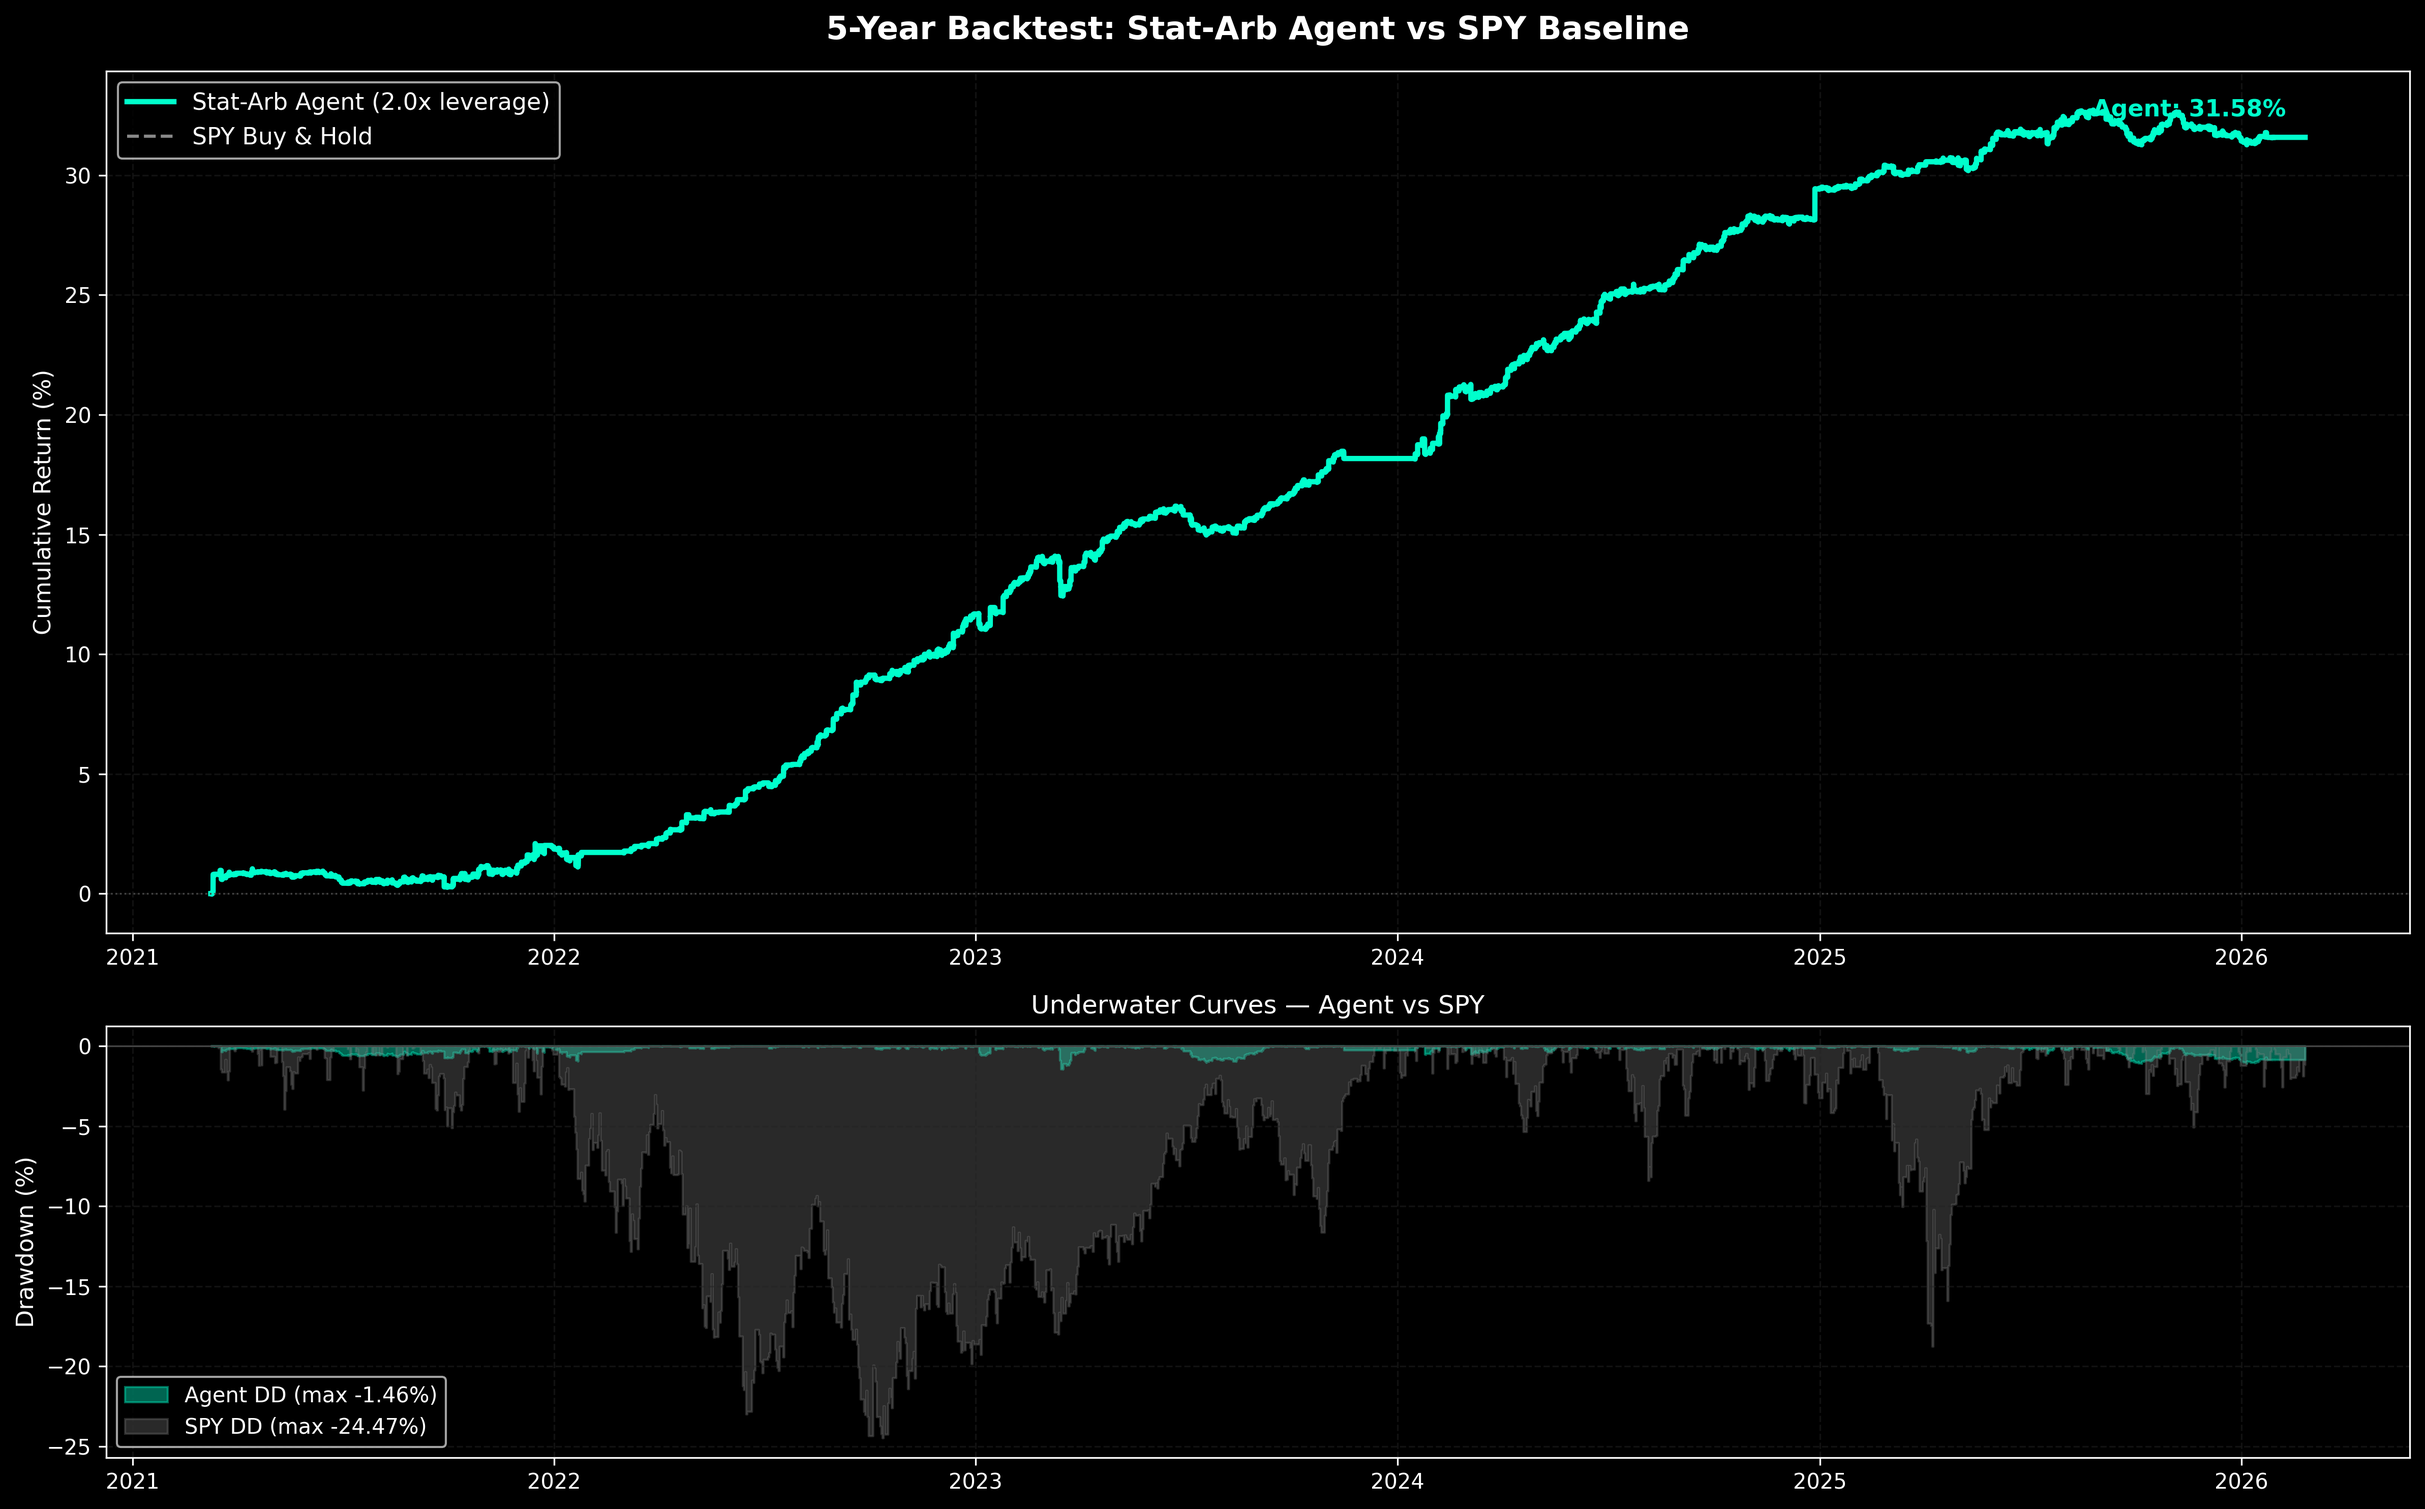
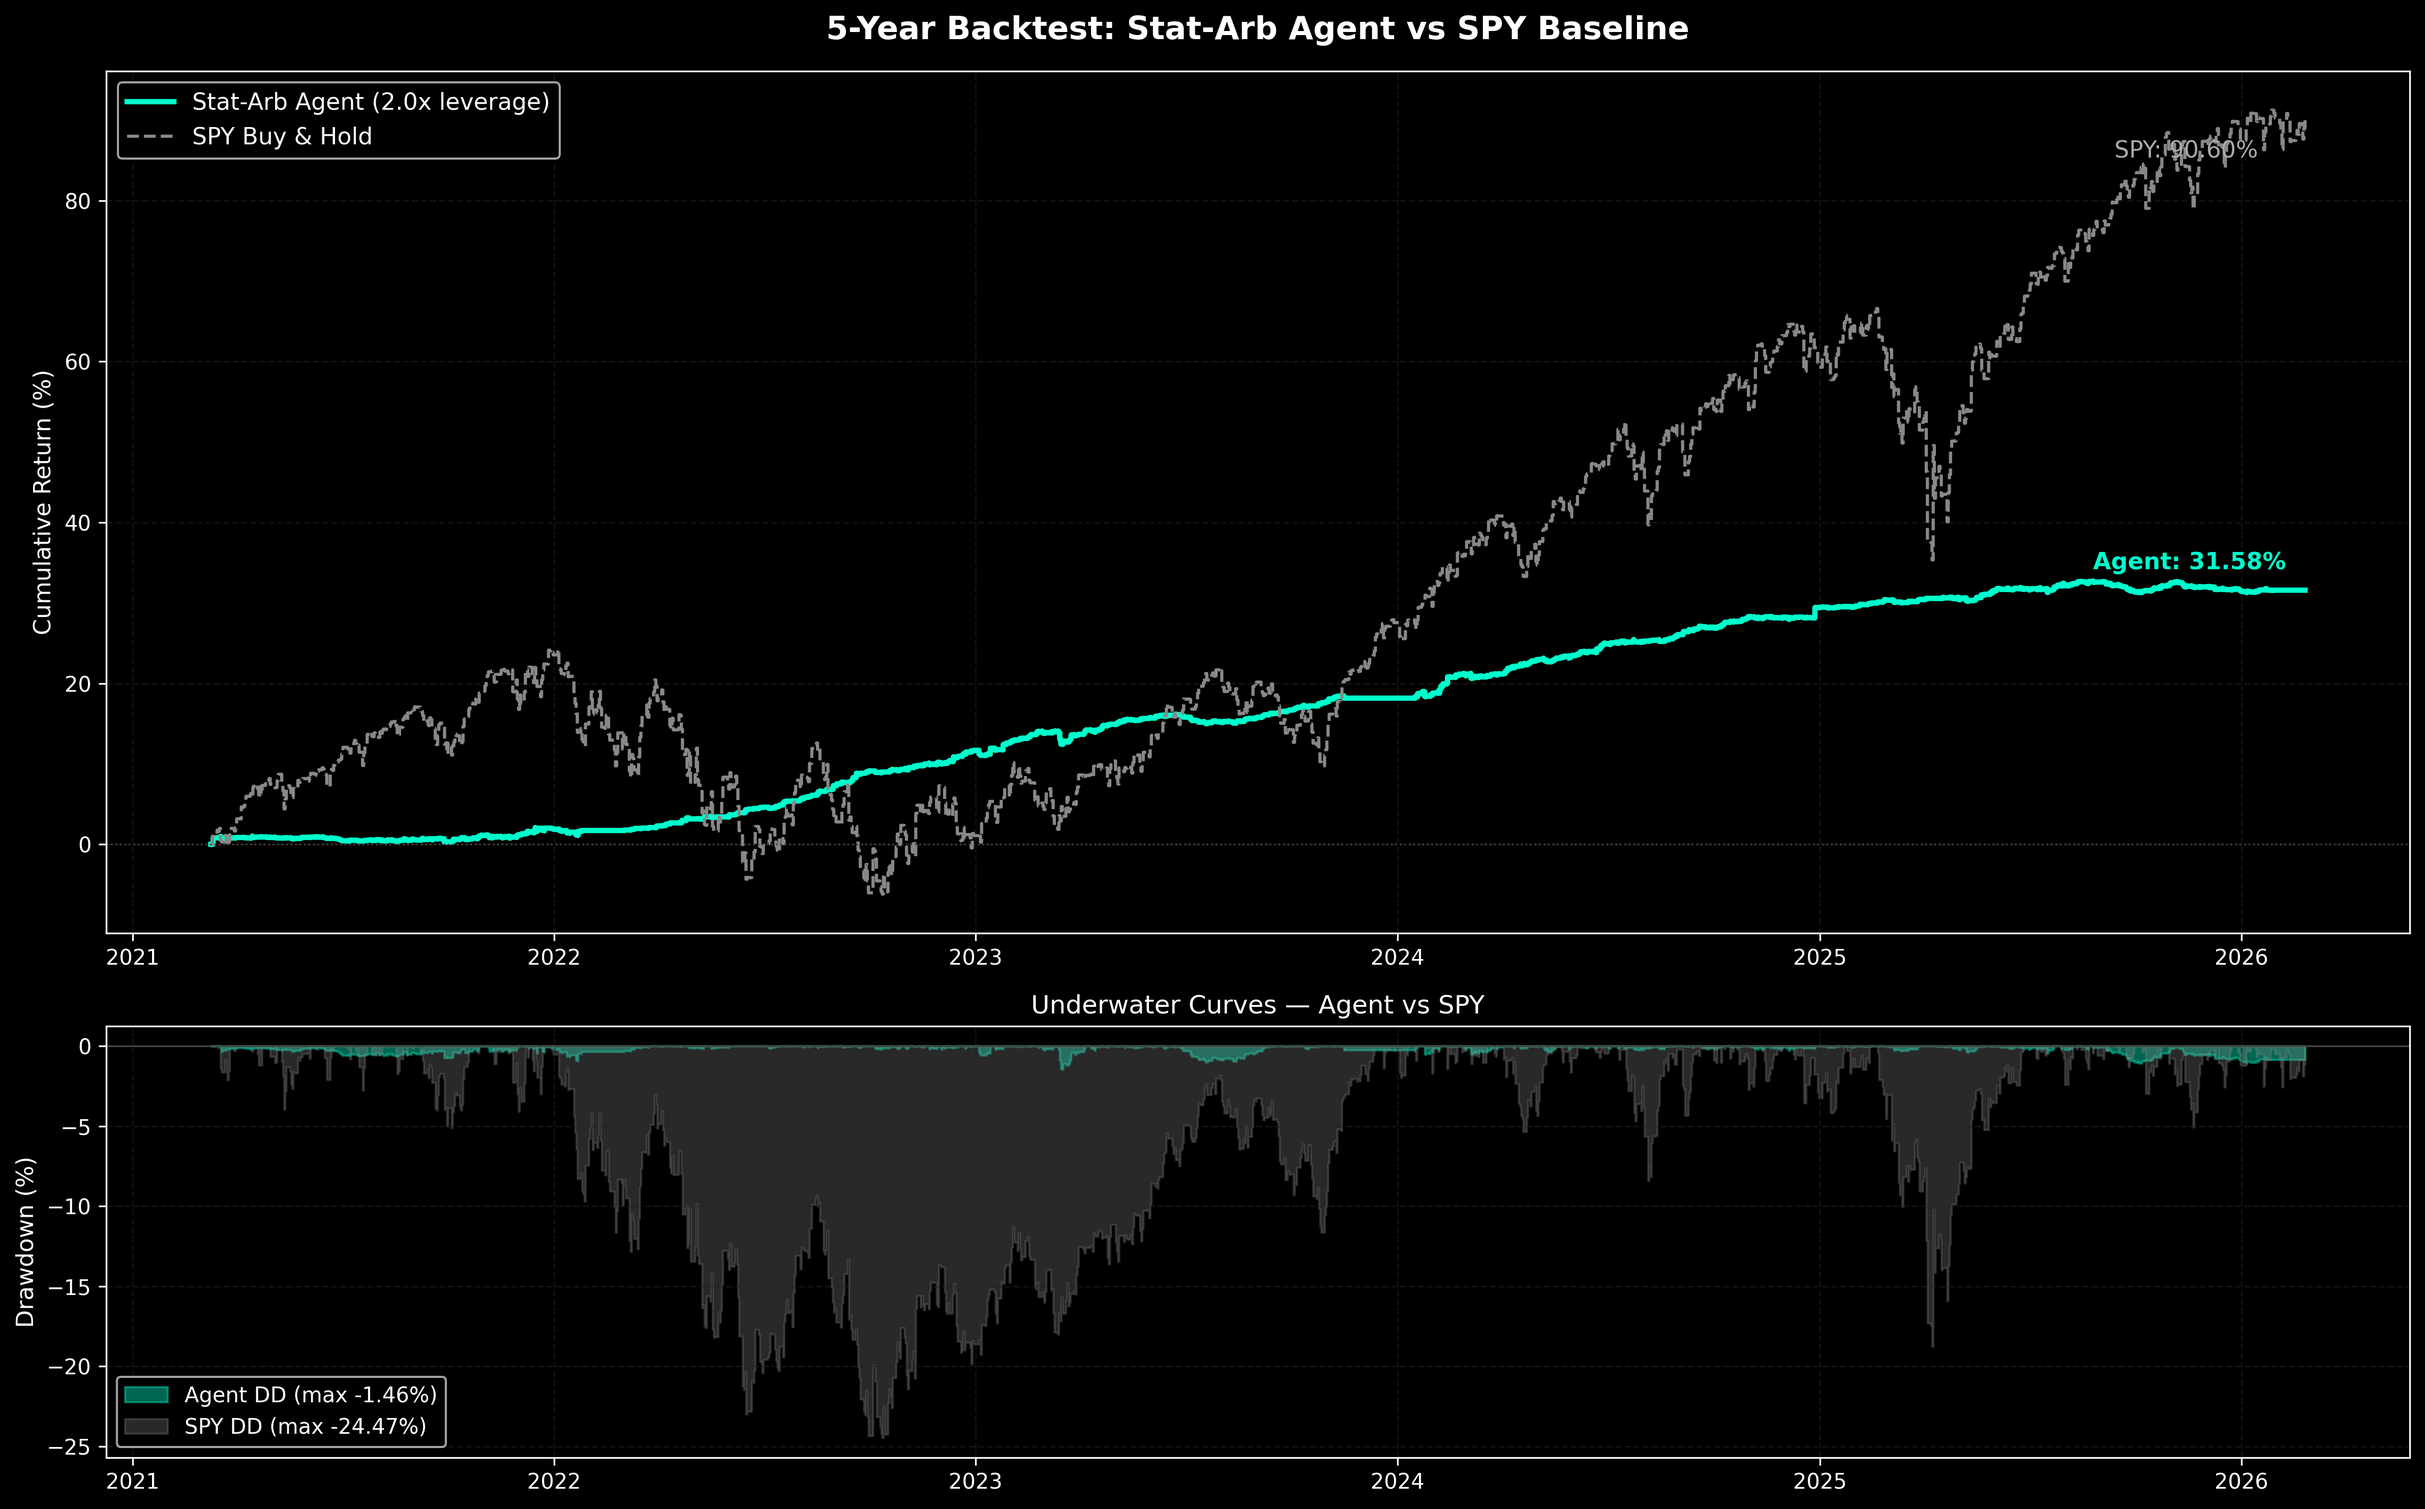
final backtesting results, tearsheet

diff --git a/backtesting/backtest_simulator.py b/backtesting/backtest_simulator.py
@@ -583,7 +583,7 @@ class VectorizedBacktester:
         gs = GridSpec(2, 1, height_ratios=[2, 1])
 
         active = equity_curve.iloc[self.WARMUP_BARS:]
-        active_spy = spy_data.reindex(active.index).ffill()
+        active_spy = spy_data.reindex(active.index).ffill().bfill()
 
         # Normalize both to % return from their first value
         agent_pct = (active / self.STARTING_EQUITY - 1.0) * 100
